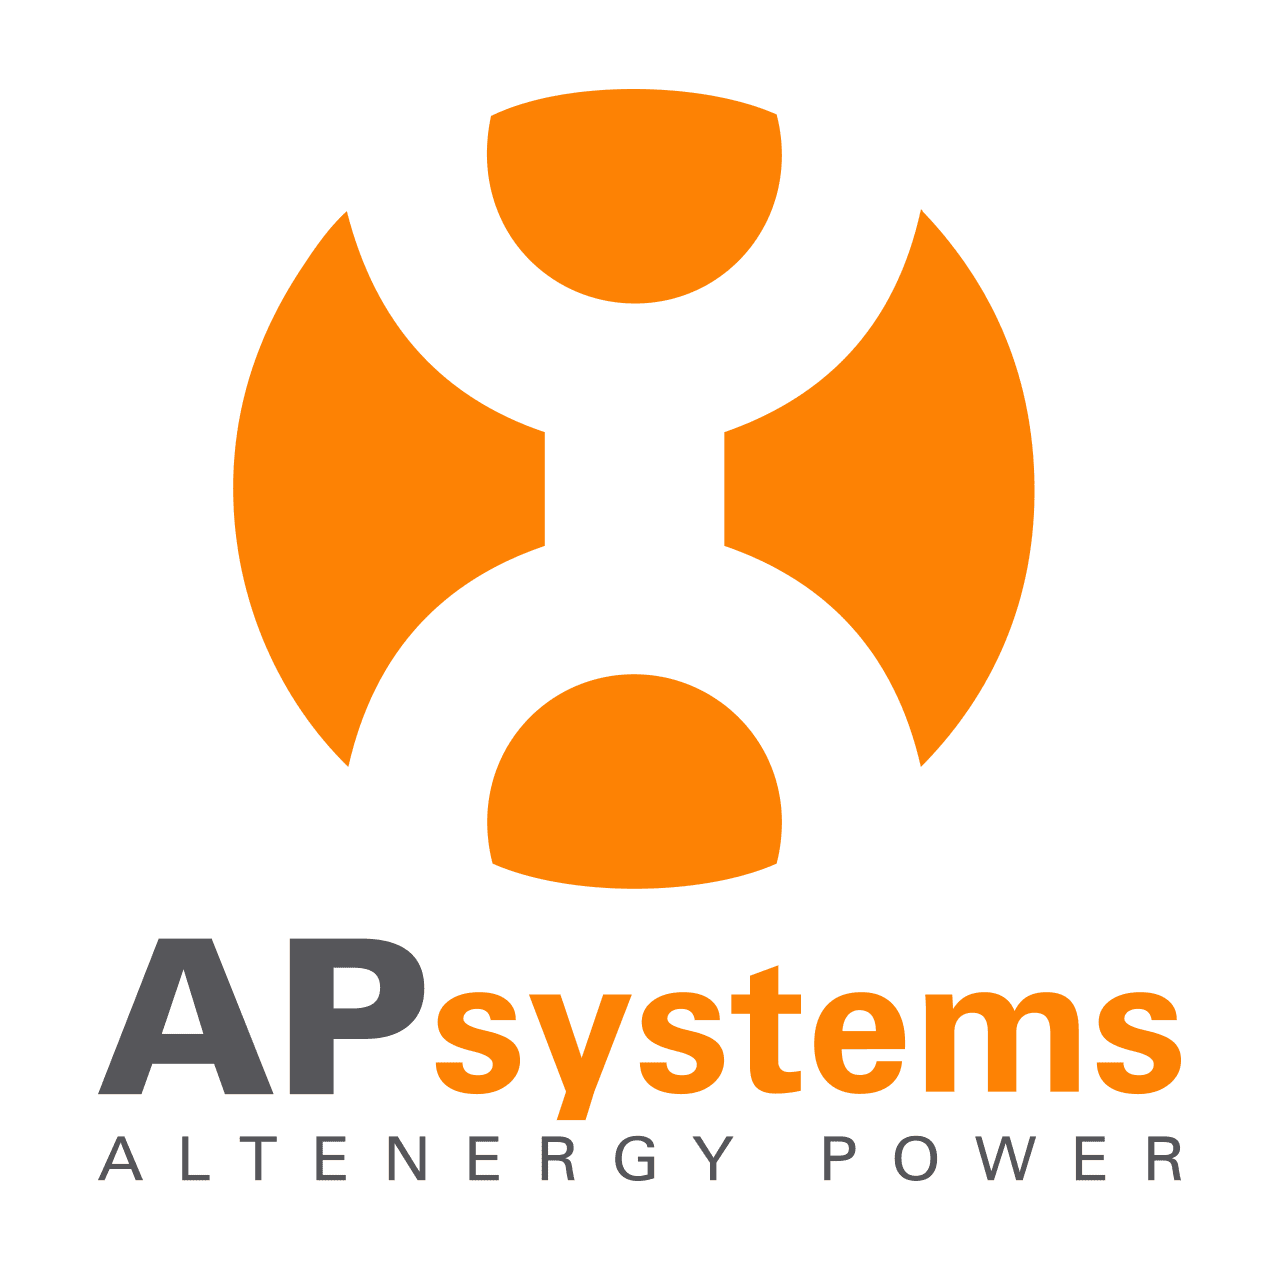
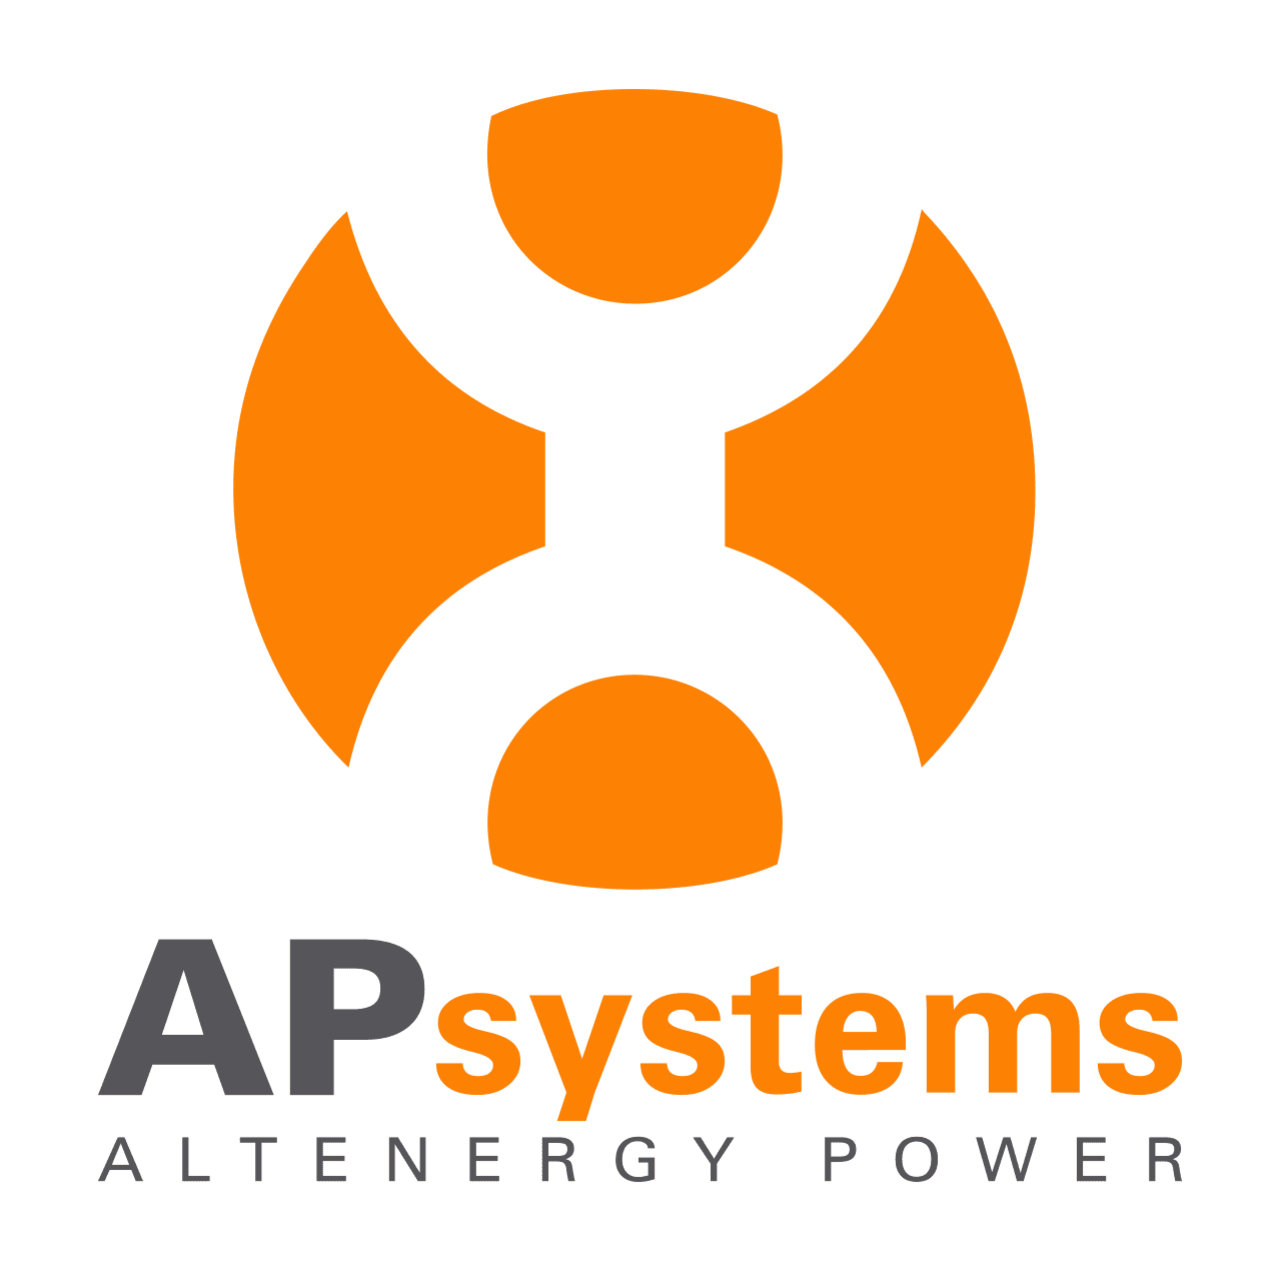
fix: resolve ioBroker repository checker issues (#31)
- package.json: add engines.node >=22, update keywords (apsystems, ez1, solar, inverter, energymanagement)
- package.json: remove duplicate devDeps bundled in @iobroker/testing (chai, mocha, sinon, proxyquire, axios)
- package.json: add files section, update @types/node to ^22, add request dependency
- io-package.json: add uk translations for titleLang, desc, news
- io-package.json: add connectionType: local, dataSource: poll
- main.js: replace setInterval/setTimeout/clearInterval with adapter.* versions
- README.md: add ## Changelog and ## License sections
- .gitignore: created
- .github/workflows/test-and-release.yml: created
- admin/apsystemsez1.png: resized to square (1276x1276)
- Repository topics added

Changed region(s): [[0.7947, 0.7953, 0.8252, 0.8565], [0.7641, 0.8871, 0.7947, 0.9176], [0.3056, 0.8871, 0.3362, 0.9176]]

diff --git a/main.js b/main.js
@@ -289,9 +289,9 @@ await adapter.setObjectNotExistsAsync('EZ1-M.Leistung.ertrag_setback_count', {
                 lastSuccessfulRequestTime = Date.now();
 
                 // Clear the existing interval to reset it
-                clearInterval(myInterval);
+                adapter.clearInterval(myInterval);
                 // Set the interval back to the initial interval (5 seconds)
-                myInterval = setInterval(leistungsdaten, initialInterval);
+                myInterval = adapter.setInterval(leistungsdaten, initialInterval);
 
                 // Set the states with the retrieved data
                 if (typeof objdata !== "undefined") {
@@ -356,7 +356,7 @@ if (objdata.data.e1 !== undefined && objdata.data.e2 !== undefined) {
 
     if (value1 === 0 && value2 === 0) {
         // Schedule the state update at midnight if values are 0
-        setTimeout(() => {
+        adapter.setTimeout(() => {
             adapter.setState('EZ1-M.Leistung.ertrag_channel1_heute', value1, true);
             adapter.setState('EZ1-M.Leistung.ertrag_channel2_heute', value2, true);
             adapter.setState('EZ1-M.Leistung.ertrag_heute', value1 + value2, true);
@@ -384,7 +384,7 @@ if (objdata.data.e1 !== undefined && objdata.data.e2 !== undefined) {
                 }
 
                 // Clear the existing interval to reset it
-                clearInterval(myInterval);
+                adapter.clearInterval(myInterval);
                 if (adapter.config.DoppelInterval) {
                     // Double the error interval each time it fails
                     errorInterval *= 2;
@@ -396,7 +396,7 @@ if (objdata.data.e1 !== undefined && objdata.data.e2 !== undefined) {
                 }
 
                 // Set the interval to the updated error interval
-                myInterval = setInterval(leistungsdaten, errorInterval);
+                myInterval = adapter.setInterval(leistungsdaten, errorInterval);
 
                 // Set the states to 0 in case of an error
                 adapter.setState('EZ1-M.Leistung.channel1_channel2_momentan', 0);
@@ -415,7 +415,7 @@ if (objdata.data.e1 !== undefined && objdata.data.e2 !== undefined) {
     }
 
     // Start the initial interval
-    myInterval = setInterval(leistungsdaten, initialInterval);
+    myInterval = adapter.setInterval(leistungsdaten, initialInterval);
 
     function deviceinfo() {
         request('http://' + adapter.config.IP + ':8050/getDeviceInfo', async (error, response, result) => {
@@ -452,10 +452,10 @@ if (objdata.data.e1 !== undefined && objdata.data.e2 !== undefined) {
 
     // Start the initial interval
     deviceinfo();
-    myIntervalD = setInterval(deviceinfo, 3600 * 1000);
+    myIntervalD = adapter.setInterval(deviceinfo, 3600 * 1000);
 
-    // SSet the Max Power
-    myInterval = setInterval(leistungsdaten, initialInterval);
+    // Set the Max Power
+    myInterval = adapter.setInterval(leistungsdaten, initialInterval);
 
     adapter.subscribeStates("*");
     if (adapter.config.MaxPower != '0') {

diff --git a/README.md b/README.md
@@ -63,3 +63,32 @@ If you reinstall the adapter or the automatic detection missed a reset (e.g. dur
 The corrected value in `ertrag_korrigiert` will update automatically on the next data fetch.
 
 [Older changelogs can be found there](CHANGELOG_OLD.md)
+
+## Changelog
+
+### 0.0.7 (2024-10-24)
+* (hefe) initial release
+
+## License
+
+MIT License
+
+Copyright (c) 2024 hefe
+
+Permission is hereby granted, free of charge, to any person obtaining a copy
+of this software and associated documentation files (the "Software"), to deal
+in the Software without restriction, including without limitation the rights
+to use, copy, modify, merge, publish, distribute, sublicense, and/or sell
+copies of the Software, and to permit persons to whom the Software is
+furnished to do so, subject to the following conditions:
+
+The above copyright notice and this permission notice shall be included in all
+copies or substantial portions of the Software.
+
+THE SOFTWARE IS PROVIDED "AS IS", WITHOUT WARRANTY OF ANY KIND, EXPRESS OR
+IMPLIED, INCLUDING BUT NOT LIMITED TO THE WARRANTIES OF MERCHANTABILITY,
+FITNESS FOR A PARTICULAR PURPOSE AND NONINFRINGEMENT. IN NO EVENT SHALL THE
+AUTHORS OR COPYRIGHT HOLDERS BE LIABLE FOR ANY CLAIM, DAMAGES OR OTHER
+LIABILITY, WHETHER IN AN ACTION OF CONTRACT, TORT OR OTHERWISE, ARISING FROM,
+OUT OF OR IN CONNECTION WITH THE SOFTWARE OR THE USE OR OTHER DEALINGS IN THE
+SOFTWARE.
